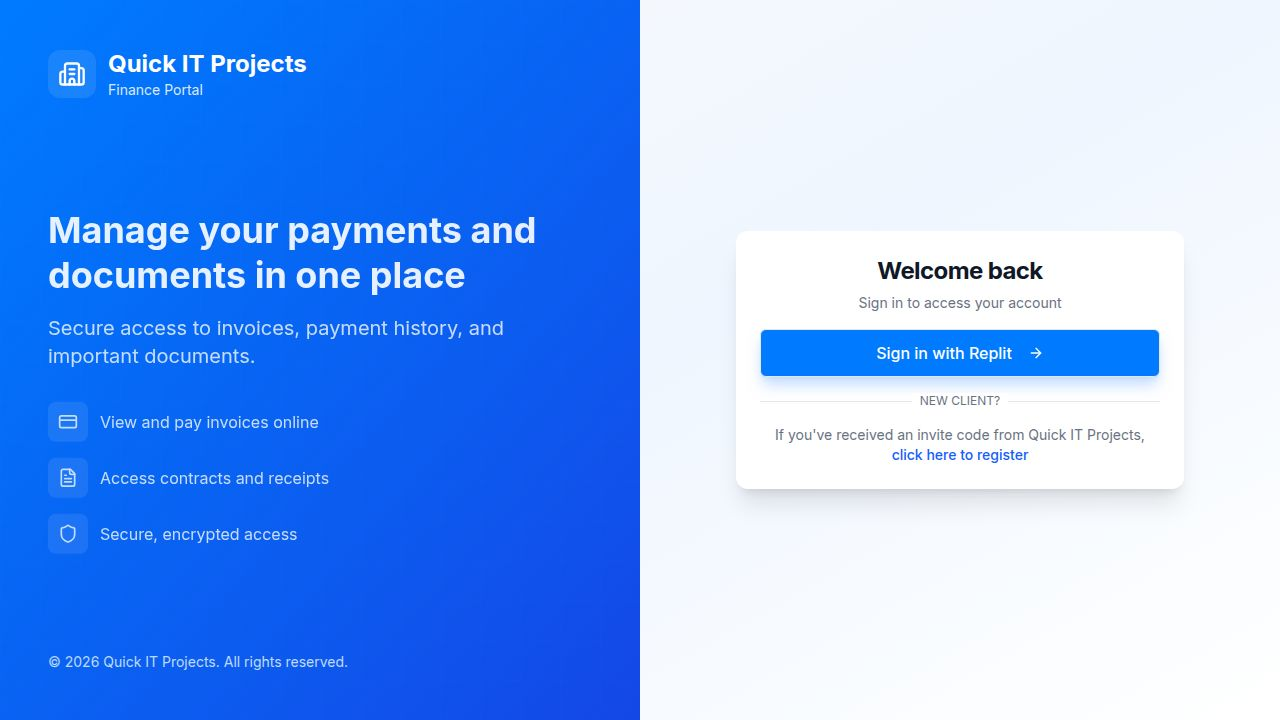
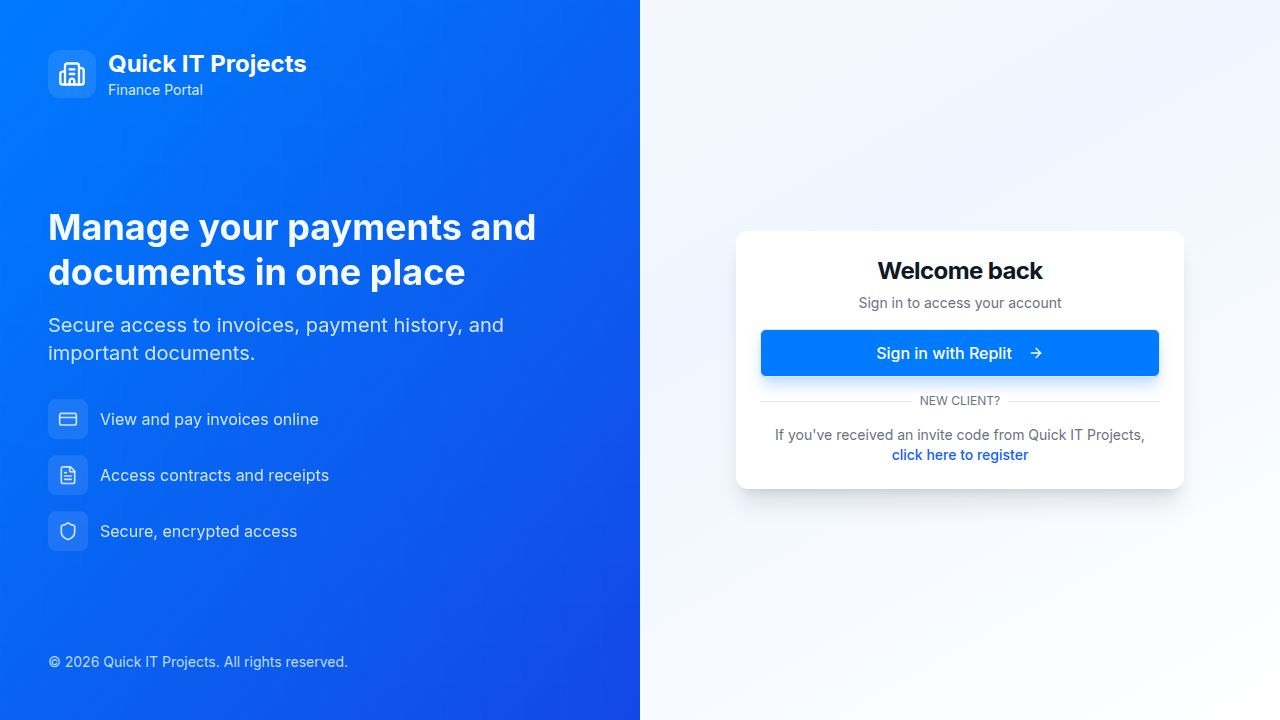
Add webhook trigger for client payment notifications
Add a utility function to send payment received webhooks to configured URLs, including idempotency checks, toggle logic, and authorization headers. Updates server routes for manual payment creation and Stripe webhooks to utilize this new function, and modifies the payments schema to include a `webhookSentAt` timestamp. Also adds a method to retrieve user profiles by client ID in storage.

Replit-Commit-Author: Agent
Replit-Commit-Session-Id: aadfc205-d336-4831-8e96-5727d8b23cbe
Replit-Commit-Checkpoint-Type: intermediate_checkpoint
Replit-Commit-Event-Id: 69343ce2-3dbd-4f4c-8ffb-1e4969d32b17
Replit-Commit-Screenshot-Url: https://storage.googleapis.com/screenshot-production-us-central1/55294787-0b14-4f33-8971-a9de7f340fb0/aadfc205-d336-4831-8e96-5727d8b23cbe/f5aflD7
Replit-Helium-Checkpoint-Created: true

diff --git a/server/routes.ts b/server/routes.ts
@@ -140,6 +140,106 @@ async function isClient(req: Request, res: Response, next: NextFunction) {
   next();
 }
 
+// Utility to send Payment Received webhook with idempotency and toggle checks
+async function sendPaymentReceivedWebhook(
+  payment: { paymentId: string; clientId: string; amountCents: number; method: string; status: string; createdAt: Date | null; webhookSentAt?: Date | null },
+  baseUrl: string,
+  executionMode: "test" | "live" = "live"
+): Promise<{ sent: boolean; reason?: string }> {
+  try {
+    // 1. Idempotency check - don't send if already sent
+    if (payment.webhookSentAt) {
+      console.log(`[PaymentWebhook] Skipping - already sent at ${payment.webhookSentAt} for payment ${payment.paymentId}`);
+      return { sent: false, reason: "already_sent" };
+    }
+
+    // 2. Get automation settings
+    const settings = await storage.getAutomationSettings();
+    
+    // 3. Check global toggle
+    if (!settings?.paymentReceivedAlertsGlobalEnabled) {
+      console.log(`[PaymentWebhook] Skipping - global Payment Received Alerts toggle is OFF`);
+      return { sent: false, reason: "global_toggle_off" };
+    }
+    
+    // 4. Check if webhook is configured and enabled
+    if (!settings.paymentReceivedWebhookUrl) {
+      console.log(`[PaymentWebhook] Skipping - webhook URL not configured`);
+      return { sent: false, reason: "url_not_configured" };
+    }
+    
+    if (!settings.paymentReceivedEnabled) {
+      console.log(`[PaymentWebhook] Skipping - webhook is disabled in settings`);
+      return { sent: false, reason: "webhook_disabled" };
+    }
+
+    // 5. Get client info and check client notification toggle
+    const client = await storage.getClient(payment.clientId);
+    if (!client) {
+      console.log(`[PaymentWebhook] Skipping - client ${payment.clientId} not found`);
+      return { sent: false, reason: "client_not_found" };
+    }
+
+    // 6. Check client notification toggle (on client record, not user profile)
+    if (!client.notificationsEnabled) {
+      console.log(`[PaymentWebhook] Skipping - client ${payment.clientId} has notifications disabled`);
+      return { sent: false, reason: "client_notifications_off" };
+    }
+
+    // 7. Build payload
+    const payload = {
+      event: "client.payment.received",
+      clientId: payment.clientId,
+      clientName: client.displayName || "Unknown",
+      clientEmail: client.email || "",
+      payment: {
+        paymentId: payment.paymentId,
+        amount: payment.amountCents,
+        method: payment.method,
+        status: payment.status,
+        createdAt: payment.createdAt?.toISOString() || new Date().toISOString(),
+      },
+      portalUrl: baseUrl,
+      executionMode,
+    };
+
+    // 8. Build headers
+    const headers: Record<string, string> = { "Content-Type": "application/json" };
+    if (settings.paymentReceivedToken) {
+      headers["Authorization"] = `Bearer ${settings.paymentReceivedToken}`;
+    }
+
+    console.log(`[PaymentWebhook] Sending to: ${settings.paymentReceivedWebhookUrl}`);
+    console.log(`[PaymentWebhook] Payload:`, JSON.stringify(payload, null, 2));
+
+    // 9. Send webhook
+    const response = await fetch(settings.paymentReceivedWebhookUrl, {
+      method: "POST",
+      headers,
+      body: JSON.stringify(payload),
+    });
+
+    console.log(`[PaymentWebhook] Response status: ${response.status}`);
+
+    if (!response.ok) {
+      const errorText = await response.text().catch(() => "No response body");
+      console.error(`[PaymentWebhook] Failed: ${response.status} - ${errorText.substring(0, 200)}`);
+      return { sent: false, reason: `webhook_failed_${response.status}` };
+    }
+
+    // 10. Mark as sent in database
+    await db.update(payments)
+      .set({ webhookSentAt: new Date() })
+      .where(eq(payments.paymentId, payment.paymentId));
+
+    console.log(`[PaymentWebhook] Successfully sent for payment ${payment.paymentId}`);
+    return { sent: true };
+  } catch (error: any) {
+    console.error(`[PaymentWebhook] Error:`, error.message);
+    return { sent: false, reason: `error: ${error.message}` };
+  }
+}
+
 export async function registerRoutes(
   httpServer: Server,
   app: Express,
@@ -2111,6 +2211,17 @@ export async function registerRoutes(
           await storage.updateInvoice(req.body.invoiceId, { status: "paid" });
         }
 
+        // Fire webhook if payment is created as confirmed and has a client
+        if (payment.status === "confirmed" && payment.clientId) {
+          const proto = req.headers["x-forwarded-proto"] || req.protocol || "https";
+          const host = req.headers["host"] || req.get("host") || "localhost:5000";
+          const baseUrl = `${proto}://${host}`;
+          
+          sendPaymentReceivedWebhook(payment, baseUrl, "live").catch(err => {
+            console.error("[AdminPaymentCreate] Webhook error (non-blocking):", err.message);
+          });
+        }
+
         res.status(201).json(payment);
       } catch (error) {
         console.error("Error creating payment:", error);
@@ -2118,63 +2229,6 @@ export async function registerRoutes(
       }
     },
   );
-
-  // Helper function to send payment received webhook
-  async function sendPaymentReceivedWebhook(payment: any, client: any, req: Request) {
-    try {
-      const settings = await storage.getAutomationSettings();
-      
-      // Check if webhook is configured and enabled
-      if (!settings?.paymentReceivedWebhookUrl || !settings.paymentReceivedEnabled) {
-        console.log("[Webhook] Payment received webhook not configured or disabled");
-        return;
-      }
-      
-      // Check global toggle
-      if (!settings.paymentReceivedAlertsGlobalEnabled) {
-        console.log("[Webhook] Payment received alerts globally disabled");
-        return;
-      }
-      
-      const proto = req.headers["x-forwarded-proto"] || req.protocol;
-      const host = req.headers["host"];
-      const baseUrl = `${proto}://${host}`;
-      
-      const payload = {
-        event: "client.payment_received",
-        clientId: client.clientId,
-        clientName: client.displayName,
-        clientEmail: client.email,
-        payment: {
-          paymentId: payment.paymentId,
-          amount: payment.amountCents,
-          method: payment.method,
-          status: payment.status,
-          createdAt: payment.createdAt,
-        },
-        portalUrl: baseUrl,
-      };
-      
-      const headers: Record<string, string> = {
-        "Content-Type": "application/json",
-      };
-      if (settings.paymentReceivedToken) {
-        headers["Authorization"] = `Bearer ${settings.paymentReceivedToken}`;
-      }
-      
-      console.log(`[Webhook] Sending payment received to ${settings.paymentReceivedWebhookUrl}`);
-      
-      const response = await fetch(settings.paymentReceivedWebhookUrl, {
-        method: "POST",
-        headers,
-        body: JSON.stringify(payload),
-      });
-      
-      console.log(`[Webhook] Payment received response: ${response.status}`);
-    } catch (error) {
-      console.error("[Webhook] Error sending payment received webhook:", error);
-    }
-  }
 
   // Update payment status (for payment verification)
   app.patch(
@@ -2198,12 +2252,15 @@ export async function registerRoutes(
           return res.status(404).json({ message: "Payment not found" });
         }
 
-        // Fire payment received webhook if status is confirmed
+        // Fire payment received webhook if status is confirmed (non-blocking)
         if (status === "confirmed" && payment.clientId) {
-          const client = await storage.getClient(payment.clientId);
-          if (client) {
-            sendPaymentReceivedWebhook(payment, client, req);
-          }
+          const proto = req.headers["x-forwarded-proto"] || req.protocol || "https";
+          const host = req.headers["host"] || req.get("host") || "localhost:5000";
+          const baseUrl = `${proto}://${host}`;
+          
+          sendPaymentReceivedWebhook(payment, baseUrl, "live").catch(err => {
+            console.error("[PaymentStatusUpdate] Webhook error (non-blocking):", err.message);
+          });
         }
 
         res.json(payment);
@@ -3265,11 +3322,14 @@ export async function registerRoutes(
 
         console.log(`[Stripe Confirm] Created payment ${payment.paymentId} for client ${clientId}, amount: ${amountCents}`);
 
-        // Fire payment received webhook for confirmed Stripe payment
-        const client = await storage.getClient(clientId);
-        if (client) {
-          sendPaymentReceivedWebhook(payment, client, req);
-        }
+        // Fire payment received webhook for confirmed Stripe payment (non-blocking)
+        const proto = req.headers["x-forwarded-proto"] || req.protocol || "https";
+        const host = req.headers["host"] || req.get("host") || "localhost:5000";
+        const baseUrl = `${proto}://${host}`;
+        
+        sendPaymentReceivedWebhook(payment, baseUrl, "live").catch(err => {
+          console.error("[Stripe Confirm] Webhook error (non-blocking):", err.message);
+        });
 
         res.json({ 
           payment, 
@@ -5378,6 +5438,16 @@ export async function registerRoutes(
         });
 
         console.log(`Created payment ${payment.paymentId} for client ${clientId}`);
+
+        // Fire payment received webhook (non-blocking)
+        const proto = req.headers["x-forwarded-proto"] || req.protocol || "https";
+        const host = req.headers["host"] || req.get("host") || "localhost:5000";
+        const baseUrl = `${proto}://${host}`;
+        
+        sendPaymentReceivedWebhook(payment, baseUrl, "live").catch(err => {
+          console.error("[StripeWebhook checkout.session.completed] Webhook error (non-blocking):", err.message);
+        });
+
         return res.json({ received: true, paymentId: payment.paymentId });
 
       } else if (event.type === "payment_intent.succeeded") {
@@ -5415,6 +5485,16 @@ export async function registerRoutes(
         });
 
         console.log(`Created payment ${payment.paymentId} for client ${clientId}`);
+
+        // Fire payment received webhook (non-blocking)
+        const proto = req.headers["x-forwarded-proto"] || req.protocol || "https";
+        const host = req.headers["host"] || req.get("host") || "localhost:5000";
+        const baseUrl = `${proto}://${host}`;
+        
+        sendPaymentReceivedWebhook(payment, baseUrl, "live").catch(err => {
+          console.error("[StripeWebhook payment_intent.succeeded] Webhook error (non-blocking):", err.message);
+        });
+
         return res.json({ received: true, paymentId: payment.paymentId });
       }
 

diff --git a/server/storage.ts b/server/storage.ts
@@ -44,6 +44,7 @@ import {
 export interface IStorage {
   // Users Profile
   getUserProfile(userId: string): Promise<UsersProfile | undefined>;
+  getUserProfileByClientId(clientId: string): Promise<UsersProfile | undefined>;
   upsertUserProfile(data: InsertUsersProfile): Promise<UsersProfile>;
 
   // Clients
@@ -113,6 +114,11 @@ export class DatabaseStorage implements IStorage {
   // ============================================
   async getUserProfile(userId: string): Promise<UsersProfile | undefined> {
     const [profile] = await db.select().from(usersProfile).where(eq(usersProfile.userId, userId));
+    return profile;
+  }
+
+  async getUserProfileByClientId(clientId: string): Promise<UsersProfile | undefined> {
+    const [profile] = await db.select().from(usersProfile).where(eq(usersProfile.clientId, clientId));
     return profile;
   }
 

diff --git a/shared/schema.ts b/shared/schema.ts
@@ -300,6 +300,7 @@ export const payments = pgTable("payments", {
   stripePaymentIntentId: varchar("stripe_payment_intent_id"),
   stripeChargeId: varchar("stripe_charge_id"),
   notes: text("notes"),
+  webhookSentAt: timestamp("webhook_sent_at"),
   createdAt: timestamp("created_at").defaultNow(),
   updatedAt: timestamp("updated_at").defaultNow(),
 });